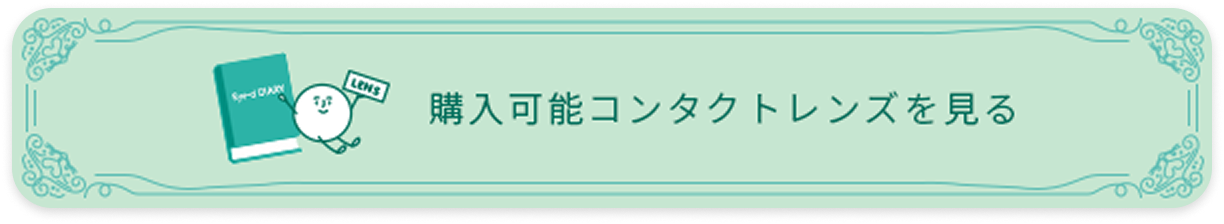
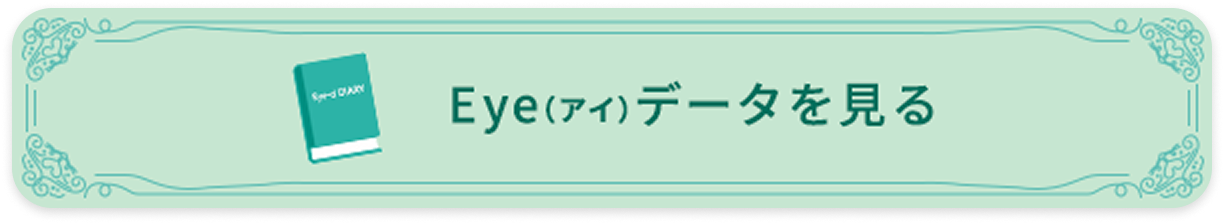
feat(contactLens): 購入可能コンタクトレンズセクションをFigma準拠にリデザイン
- Eye-d DIARYロゴ、装飾ライン、区切り点線、バナー画像を配置
- SP/PC切替用バナー画像を差替え
- PC時の装飾幅・余白・バナーサイズを調整

Changed region(s): [[0.1552, 0.2188, 0.8382, 0.75]]

diff --git a/mock/files/commonfiles/styles/design.css b/mock/files/commonfiles/styles/design.css
@@ -2677,6 +2677,9 @@
   max-width: 70.625rem;
   margin: 5rem auto 0;
   padding: 0 1rem;
+  display: flex;
+  flex-direction: column;
+  align-items: center;
 }
 @media (min-width: 992px) {
   .c-contact-lens-btn {
@@ -2684,35 +2687,67 @@
   }
 }
 
-.c-contact-lens-btn__heading {
-  margin-bottom: 1rem;
-  text-align: center;
+.c-contact-lens-btn__deco-line {
+  display: block;
+  width: 21.625rem;
+  height: auto;
+}
+@media (min-width: 992px) {
+  .c-contact-lens-btn__deco-line {
+    width: 37.5rem;
+  }
 }
 
-.c-contact-lens-btn__heading-en {
+.c-contact-lens-btn__logo {
   display: block;
-  font-family: "Raleway", "Noto Sans JP", sans-serif;
-  font-size: 1.5rem;
-  font-weight: 300;
-  color: #00387d;
-  line-height: 1.5;
-  letter-spacing: 0.06rem;
+  width: 8.8125rem;
+  height: auto;
+  margin-top: 1rem;
+}
+@media (min-width: 992px) {
+  .c-contact-lens-btn__logo {
+    margin-top: 1.5rem;
+  }
 }
 
-.c-contact-lens-btn__heading-ja {
+.c-contact-lens-btn__divider {
   display: block;
-  font-family: "Noto Sans JP", sans-serif;
-  font-size: 0.875rem;
+  width: 18.5625rem;
+  height: 0.0625rem;
+  margin: 0.5rem 0;
+}
+@media (min-width: 992px) {
+  .c-contact-lens-btn__divider {
+    width: 31.25rem;
+    margin: 0.875rem 0;
+  }
+}
+
+.c-contact-lens-btn__subtitle {
+  display: block;
+  font-family: "Noto Sans JP", "Hiragino Kaku Gothic ProN", "Hiragino Sans", Meiryo, sans-serif;
+  font-size: 0.75rem;
   font-weight: 400;
+  line-height: 1.75;
+  letter-spacing: 0.009375rem;
   color: #6B7280;
-  margin-top: 0.25rem;
+  text-align: center;
 }
 
 .c-contact-lens-btn__link {
   max-width: 37.5rem;
-  margin: 0 auto;
+  margin: 0.5rem auto 1rem;
+}
+@media (min-width: 992px) {
+  .c-contact-lens-btn__link {
+    max-width: 30rem;
+    margin: 0.875rem auto 1.5rem;
+  }
+}
+.c-contact-lens-btn__link {
   display: block;
   text-decoration: none;
+  overflow: hidden;
 }
 
 .c-contact-lens-btn__img {

diff --git a/workbench/styles/components/_contactLensButton.scss b/workbench/styles/components/_contactLensButton.scss
@@ -11,41 +11,75 @@
   max-width: rem(1130);
   margin: rem(80) auto 0;
   padding: 0 rem(16);
+  display: flex;
+  flex-direction: column;
+  align-items: center;
 
   @include pc {
     padding-left: var(--side-nav-content-offset);
   }
 }
 
-.c-contact-lens-btn__heading {
-  margin-bottom: rem(16);
+// 上下装飾ライン
+.c-contact-lens-btn__deco-line {
+  display: block;
+  width: rem(346);
+  height: auto;
+
+  @include pc {
+    width: rem(600);
+  }
+}
+
+// ロゴ
+.c-contact-lens-btn__logo {
+  display: block;
+  width: rem(141);
+  height: auto;
+  margin-top: rem(16);
+
+  @include pc {
+    margin-top: rem(24);
+  }
+}
+
+// 区切りライン
+.c-contact-lens-btn__divider {
+  display: block;
+  width: rem(297);
+  height: rem(1);
+  margin: rem(8) 0;
+
+  @include pc {
+    width: rem(500);
+    margin: rem(14) 0;
+  }
+}
+
+// サブテキスト
+.c-contact-lens-btn__subtitle {
+  display: block;
+  font-family: $font-family-base;
+  font-size: rem(12);
+  font-weight: $font-weight-normal;
+  line-height: 1.75;
+  letter-spacing: rem(0.15);
+  color: $text-light;
   text-align: center;
 }
 
-.c-contact-lens-btn__heading-en {
-  display: block;
-  font-family: $font-family-heading-en;
-  font-size: rem(24);
-  font-weight: $font-weight-light;
-  color: $primary-color;
-  line-height: 1.5;
-  letter-spacing: rem(0.96);
-}
-
-.c-contact-lens-btn__heading-ja {
-  display: block;
-  font-family: $font-family-heading;
-  font-size: rem(14);
-  font-weight: $font-weight-normal;
-  color: $text-light;
-  margin-top: rem(4);
-}
-
+// バナーボタン
 .c-contact-lens-btn__link {
   max-width: rem(600);
-  margin: 0 auto;
+  margin: rem(8) auto rem(16);
+
+  @include pc {
+    max-width: rem(480);
+    margin: rem(14) auto rem(24);
+  }
   display: block;
   text-decoration: none;
+  overflow: hidden;
 }
 
 .c-contact-lens-btn__img {

diff --git a/workbench/includes/parts/main/common/contactLensButton.html b/workbench/includes/parts/main/common/contactLensButton.html
@@ -1,12 +1,21 @@
 <div class="c-contact-lens-btn">
-  <div class="c-contact-lens-btn__heading">
-    <span class="c-contact-lens-btn__heading-en">Eye-data</span>
-    <span class="c-contact-lens-btn__heading-ja">購入可能コンタクトレンズ</span>
-  </div>
+  <!-- 上部装飾ライン -->
+  <img src="../../../files/commonfiles/images/deco-line-contact.svg" alt="" class="c-contact-lens-btn__deco-line" aria-hidden="true">
+  <!-- ロゴ -->
+  <img src="../../../files/commonfiles/images/eyed-logo.png" alt="Eye-d DIARY" class="c-contact-lens-btn__logo">
+  <!-- 上区切りライン -->
+  <img src="../../../files/commonfiles/images/deco-divider-contact.svg" alt="" class="c-contact-lens-btn__divider" aria-hidden="true">
+  <!-- サブテキスト -->
+  <span class="c-contact-lens-btn__subtitle">購入可能コンタクトレンズ</span>
+  <!-- 下区切りライン -->
+  <img src="../../../files/commonfiles/images/deco-divider-contact.svg" alt="" class="c-contact-lens-btn__divider" aria-hidden="true">
+  <!-- バナーボタン -->
   <a href="#" class="c-contact-lens-btn__link">
     <picture>
       <source media="(min-width: 992px)" srcset="../../../files/commonfiles/images/btn-contact-lens-pc.png">
-      <img src="../../../files/commonfiles/images/btn-contact-lens-sp.png" alt="購入可能コンタクトレンズを見る" class="c-contact-lens-btn__img">
+      <img src="../../../files/commonfiles/images/btn-contact-lens-sp.png" alt="Eye（アイ）データを見る" class="c-contact-lens-btn__img">
     </picture>
   </a>
+  <!-- 下部装飾ライン -->
+  <img src="../../../files/commonfiles/images/deco-line-contact-bottom.svg" alt="" class="c-contact-lens-btn__deco-line" aria-hidden="true">
 </div>
